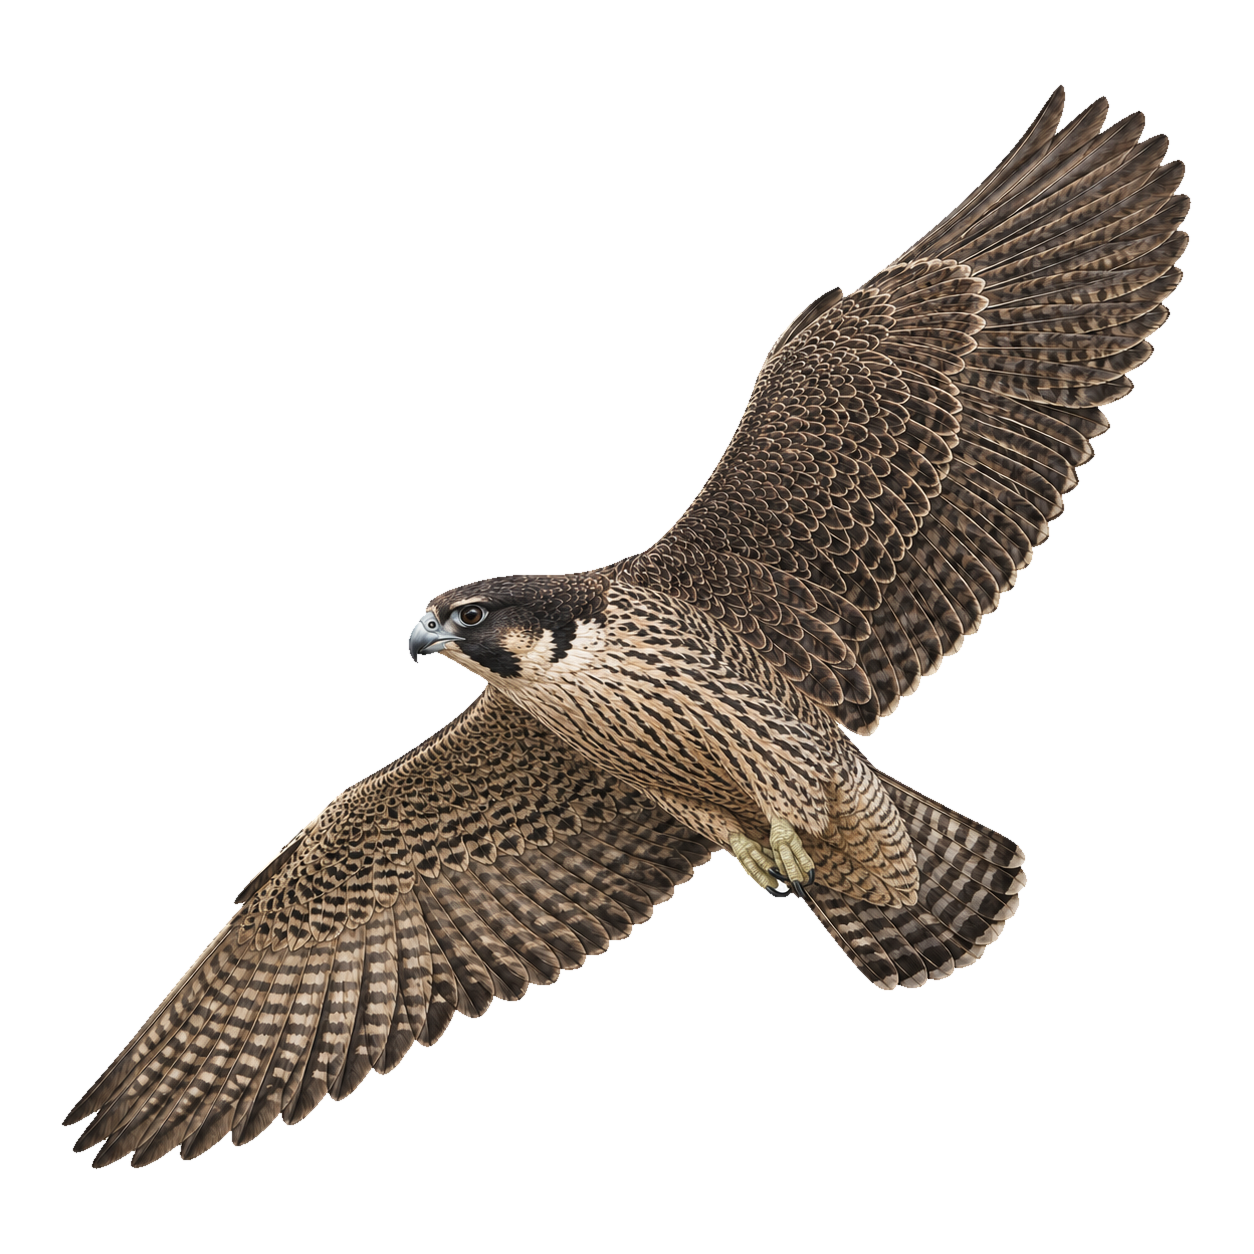
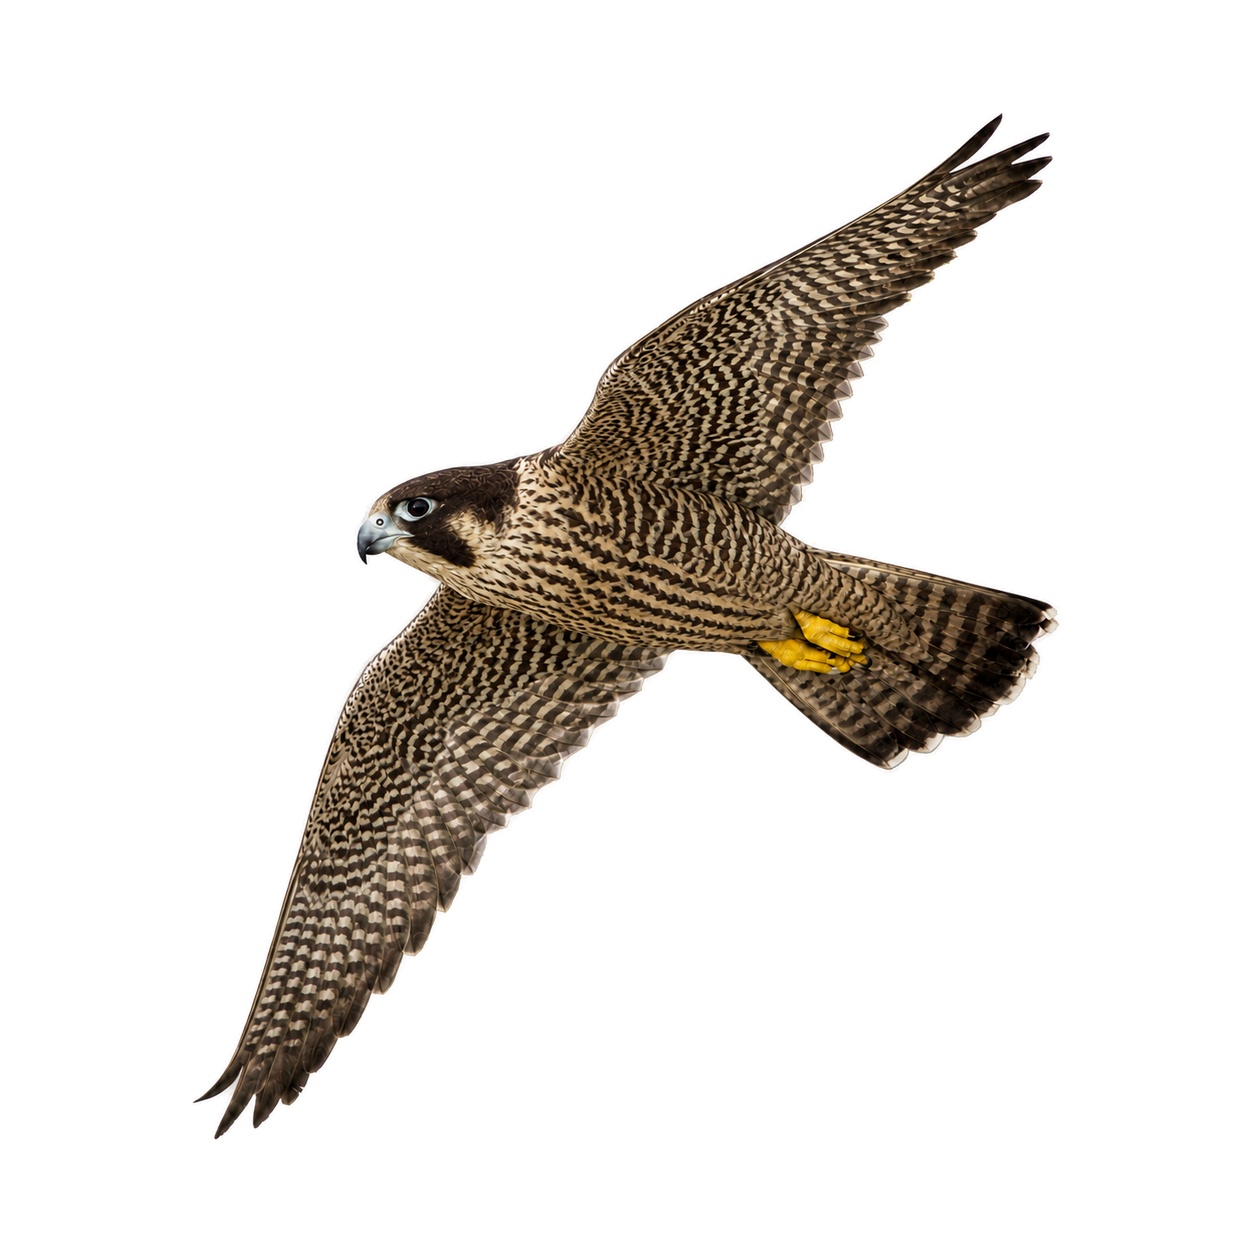
Replace peregrine flight illustrations using photographic anatomy references

diff --git a/lib/bird-images.ts b/lib/bird-images.ts
@@ -1,5 +1,5 @@
 export const birdImages: Record<string, string> = {
-  "juvenile-wanderfalke": "/birds/juvenile-wanderfalke.png?v=e5406b651d16",
+  "juvenile-wanderfalke": "/birds/juvenile-wanderfalke.png?v=f0c0ef3d0904",
   "juvenile-lannerfalke": "/birds/juvenile-lannerfalke.png?v=73be3defe84e",
   "rotschwanzbussard": "/birds/rotschwanzbussard.png?v=bb1f1776b323",
   "juvenile-schopfkarakara": "/birds/juvenile-schopfkarakara.png?v=d13412255811",
@@ -31,7 +31,7 @@ export const birdImages: Record<string, string> = {
   "female-gaukler": "/birds/female-gaukler.png?v=b5a1bbdc6ba2",
   "seeadler": "/birds/seeadler.png?v=c376f5783c87",
   "juvenile-koenigsbussard": "/birds/juvenile-koenigsbussard.png?v=7e19db718ccc",
-  "wanderfalke": "/birds/wanderfalke.png?v=3acfd65943b5",
+  "wanderfalke": "/birds/wanderfalke.png?v=451172f0efee",
   "lannerfalke": "/birds/lannerfalke.png?v=f8a06dd09a0d",
   "juvenile-sakerfalke": "/birds/juvenile-sakerfalke.png?v=569e713354f9",
   "maeusebussard": "/birds/maeusebussard.png?v=a8213ad8d1f0",
